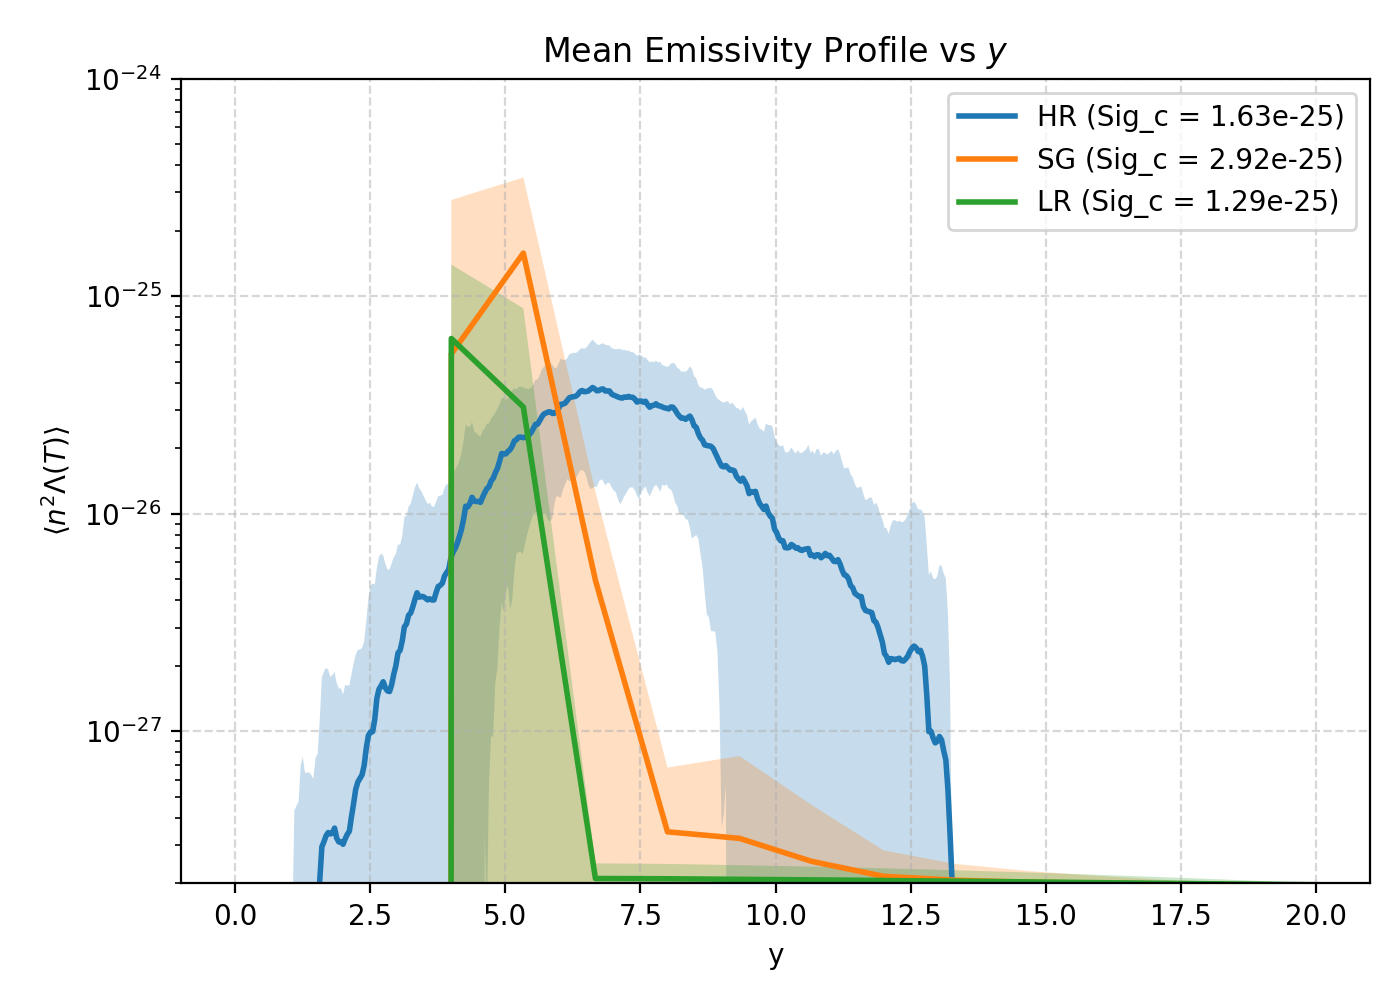
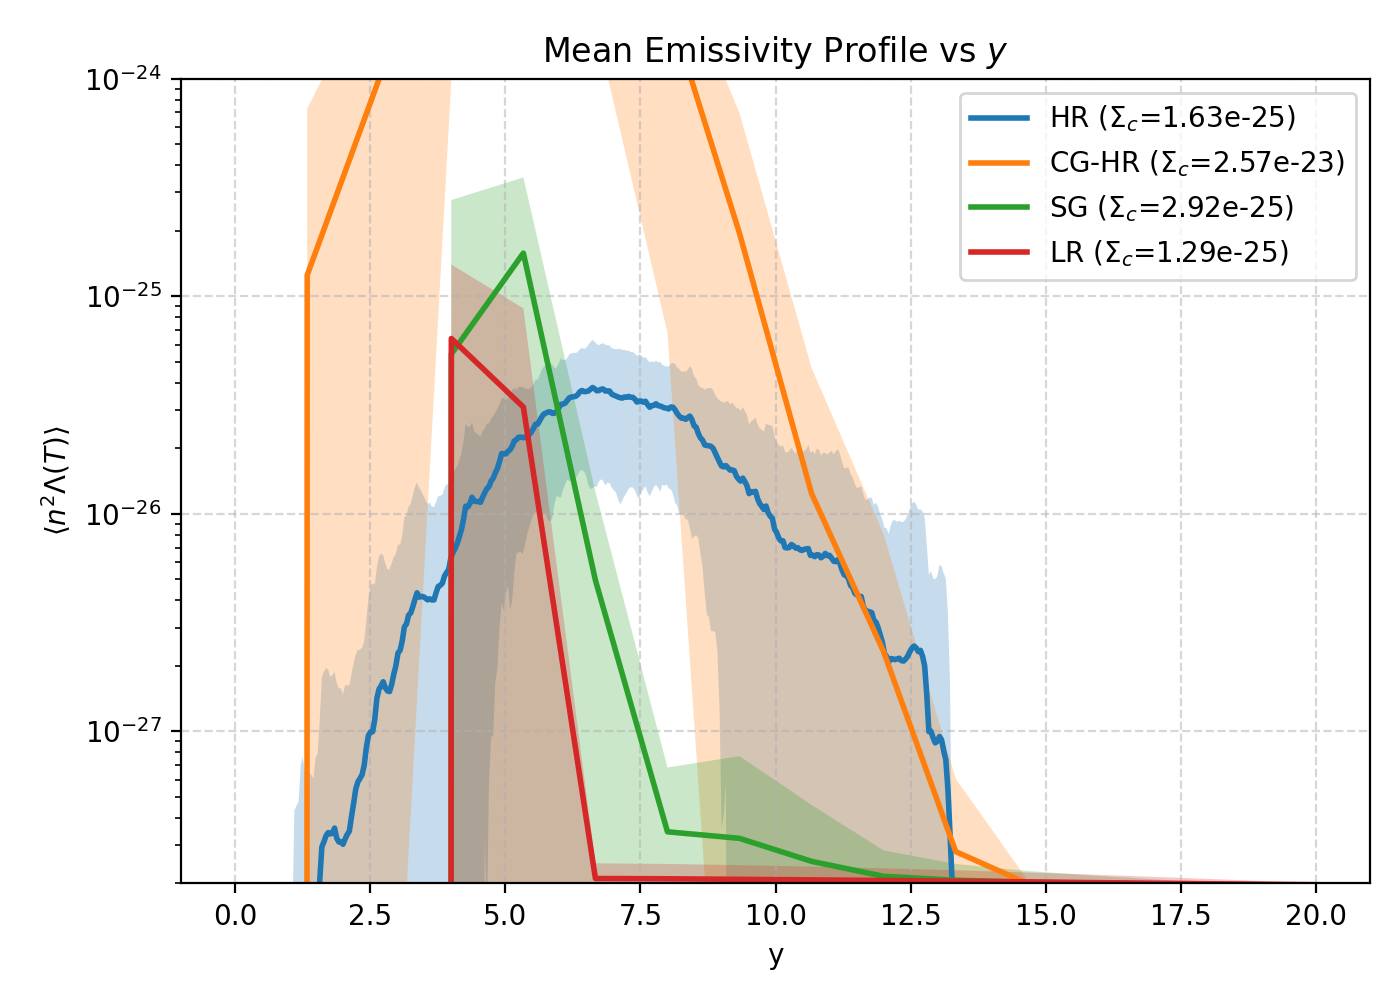
disc run

Changed region(s): [[0.215, 0.062, 0.86, 0.899], [0.6757, 0.093, 0.9521, 0.279]]

diff --git a/data/mocks/mock_sg.py b/data/mocks/mock_sg.py
@@ -75,8 +75,8 @@ def lambda_cool(temp):
     return lam
 
 resolution = (16, 8)
-file_path = f"/ptmp/mpa/dipda/subgrid/SubgridCGMModel/AthenaK_legacy/sd_build/src/ldc{resolution[0]}_{resolution[1]}/bin"
-save_path = f"mocks/sg/ldc{resolution}/"
+file_path = f"/ptmp/mpa/dipda/subgrid/SubgridCGMModel/AthenaK_legacy/sd_build/src/lsc{resolution[0]}_{resolution[1]}/bin"
+save_path = f"mocks/sg/lsc{resolution}/"
 os.makedirs(save_path, exist_ok=True)
 
 sim_data = simulation_data()
